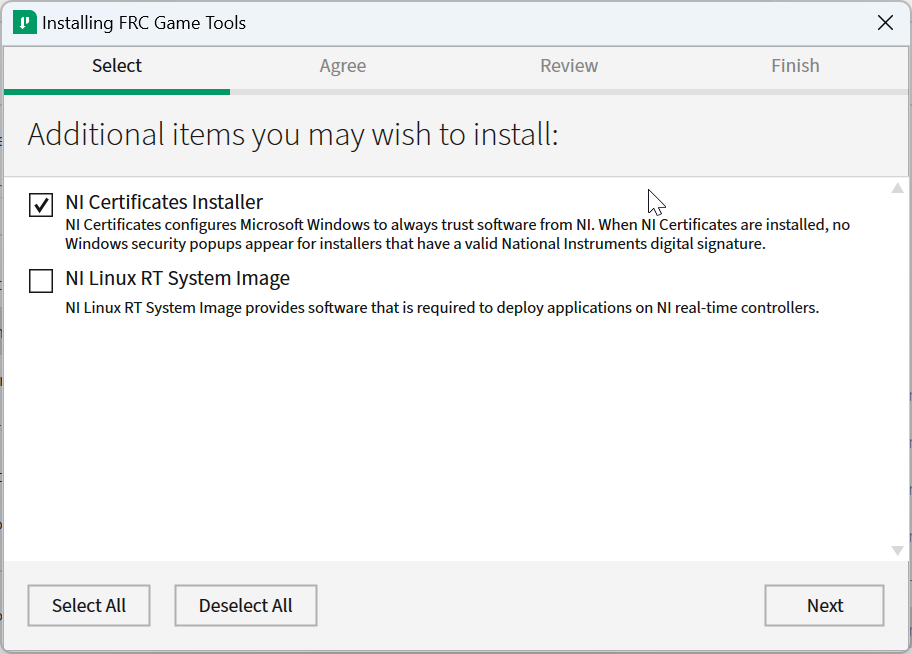
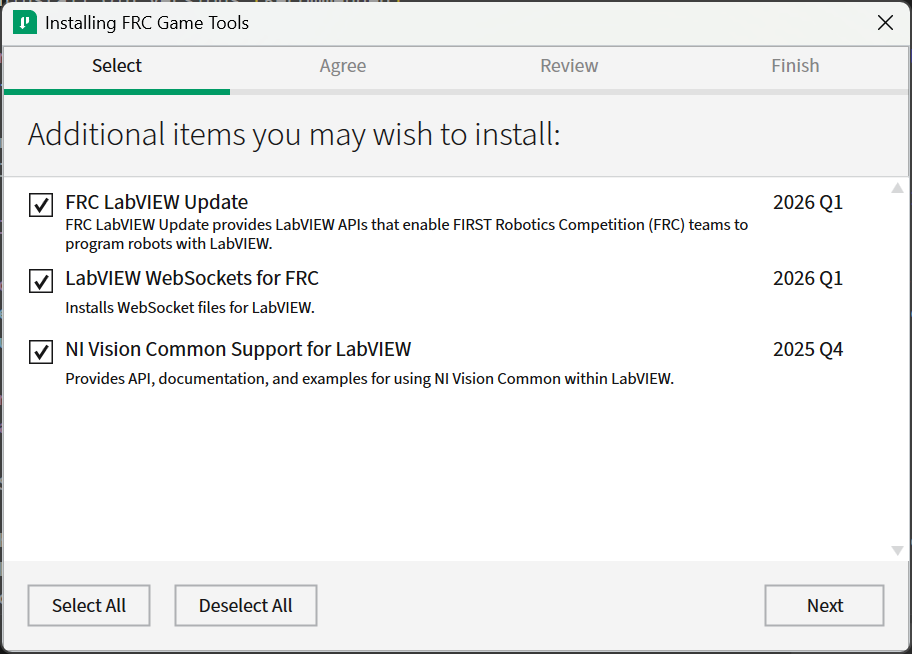
Update Game Tools installation for 2026 (#3190)
* Update Game Tools installation for 2026

No longer a separate step for installing NI Package Manager

* Remove unused images and add back additional-software

diff --git a/source/docs/zero-to-robot/step-2/frc-game-tools.rst b/source/docs/zero-to-robot/step-2/frc-game-tools.rst
@@ -16,8 +16,6 @@ The LabVIEW runtime components required for the Driver Station and Imaging Tool 
 
 - Windows 10 or higher (Windows 10, 11).
 
-.. important:: FRC Game Tools requires an x86 CPU due to its dependency on LabVIEW. Do not use a device with an ARM CPU.
-
 ## Download Game Tools
 
 Navigate to the  [FRC Game Tools](https://www.ni.com/en/support/downloads/drivers/download.frc-game-tools.html#553883) from NI.
@@ -70,34 +68,6 @@ In the dialog box that appears, select all entries. The easiest way to do this i
 
       .. note:: Other installed programs may associate with iso files and the :guilabel:`mount` option may not appear. If that software does not give the option to mount or extract the iso file, then install 7-Zip and use that to extract the iso.
 
-### NI Package Manager License
-
-.. image:: images/update-suite/ni-package-license.png
-   :alt: Accepting the License Agreement for NI Package Manager.
-
-If you see this screen, click :guilabel:`Next`. This screen confirms that you agree to NI Package Manager License agreement.
-
-### Disable Windows Fast Startup
-
-.. image:: images/update-suite/labview_fast_startup.png
-   :alt: Screen for disabling Windows fast startup.
-
-It is recommended to leave this screen as-is, as Windows Fast Startup can cause issues with the NI drivers required to image the roboRIO. Go ahead and click :guilabel:`Next`.
-
-### NI Package Manager Review
-
-.. image:: images/update-suite/labview_package_manager_review.png
-   :alt: Review screen that shows what is about to be installed.
-
-If you see this screen, click :guilabel:`Next`.
-
-### NI Package Manager Installation
-
-.. image:: images/update-suite/ni-package-install.png
-   :alt: Screen with progress bars indicating the amount of completion.
-
-Installation progress of the NI Package Manager will be tracked in this window.
-
 ### Additional Software
 
 .. image:: images/update-suite/additional-software.png
@@ -111,6 +81,13 @@ If you see this screen, click :guilabel:`Next`.
    :alt: Accept the NI software license agreement.
 
 Select :guilabel:`I accept…` then click :guilabel:`Next`
+
+### Disable Windows Fast Startup
+
+.. image:: images/update-suite/labview_fast_startup.png
+   :alt: Screen for disabling Windows fast startup.
+
+It is recommended to leave this screen as-is, as Windows Fast Startup can cause issues with the NI drivers required to image the roboRIO. Go ahead and click :guilabel:`Next`.
 
 ### Review Summary
 
